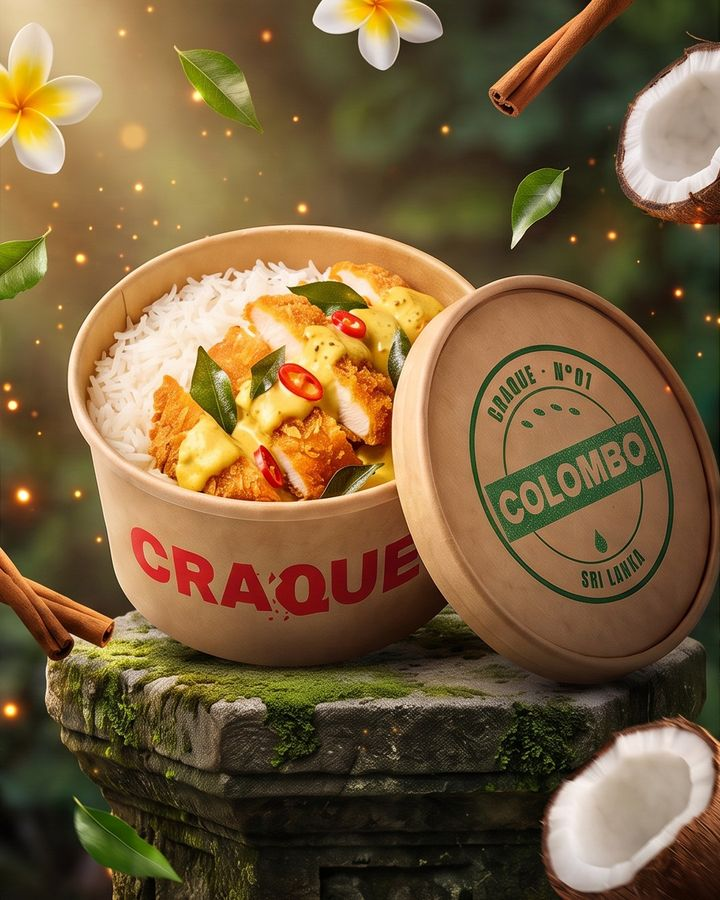
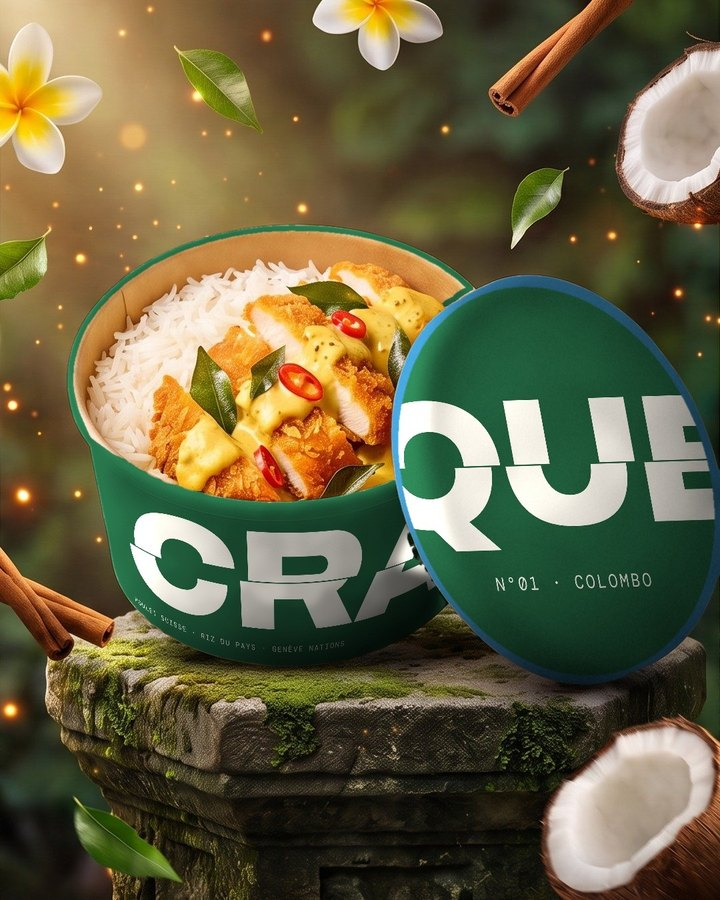
Cuisine Lab : présentation lisible sur téléphone + box verte dans les scènes (#67)
* Présentation Cuisine Lab : version lisible sur téléphone et tablette

En portrait, les 13 écrans s'empilent en défilement vertical, recalés
pour la largeur du téléphone. L'ordinateur et le paysage restent en
diaporama.

Claude-Session: https://claude.ai/code/session_01WSGfmNamgRYgbR4Fhe6eWt

* CRAQUE : nouvelle box verte dans les scènes Colombo, Téhéran, Delhi

Fonds et plats d'origine gardés ; seule la box change (CRA sur le bol,
QUE et l'édition sur le couvercle, bande à la couleur de l'édition).
Remplace aussi les 3 posts du compte Instagram de la présentation.

Claude-Session: https://claude.ai/code/session_01WSGfmNamgRYgbR4Fhe6eWt

---------

Changed region(s): [[0.0917, 0.28, 1.0, 0.7778], [0.2444, 0.2489, 0.5806, 0.28], [0.1833, 0.28, 0.2444, 0.3111]]

diff --git a/public/demos/cachet/v2/index.html b/public/demos/cachet/v2/index.html
@@ -202,7 +202,7 @@ a:hover{color:#1F5A3A;}
     <span>du midi.</span>
   </h2>
   <p style="position:absolute; left:100px; top:560px; width:620px; margin:0; font-size:36px; font-weight:500; line-height:1.2; color:#A39C90;">La même appli, côté clients du midi.</p>
-  <div style="position:absolute; left:812px; top:150px; display:flex; gap:36px;">
+  <div data-m="phones" style="position:absolute; left:812px; top:150px; display:flex; gap:36px;">
     <div style="display:flex; flex-direction:column; gap:26px;">
       <div style="width:312px; height:660px; border-radius:48px; background:#3A3A3A; padding:10px; box-sizing:border-box;">
         <div style="width:100%; height:100%; border-radius:39px; background:#FFFFFF; color:#111111; overflow:hidden; display:flex; flex-direction:column; gap:14px; padding:24px 20px 20px; box-sizing:border-box;">
@@ -313,7 +313,7 @@ a:hover{color:#1F5A3A;}
       <div style="position:absolute; left:0; right:0; top:126px; height:46px; background:#E8641E; color:#111111; display:flex; align-items:center; justify-content:center; font-family:'DM Mono',monospace; font-size:22px; letter-spacing:.06em;">N°03 DELHI</div>
     </div>
   </div>
-  <div style="position:absolute; left:1020px; top:120px; width:800px; height:800px; background:#E6DDCB; color:#6B645A;">
+  <div data-m="photo" style="position:absolute; left:1020px; top:120px; width:800px; height:800px; background:#E6DDCB; color:#6B645A;">
     <img src="img/craque-box-dessus.jpg" alt="" style="position:absolute; inset:0; width:100%; height:100%; object-fit:cover; display:block;">
   </div>
   <sc-if value="{{ pauses }}" hint-placeholder-val="{{ true }}">
@@ -329,7 +329,7 @@ a:hover{color:#1F5A3A;}
 <section data-label="Midi puis soir" data-screen-label="07 Midi puis soir" data-speaker-notes="CRAQUE démarre le midi, dans les canaux qu'ils maîtrisent déjà : clients traiteur, organisations du quartier, click &amp; collect. Pas de bruit public. On cale le coût matière, les recettes et la cadence de la cuisine. Seulement ensuite, on ouvre le soir avec le lancement complet. C'est aussi la réponse à la cuisine vide le soir." style="background:#1F5A3A; color:#F6F1E7; font-family:'Archivo',sans-serif; overflow:hidden;">
   <div style="position:absolute; left:100px; top:90px; font-family:'DM Mono',monospace; font-size:26px; letter-spacing:.14em; text-transform:uppercase; color:#CFE3D6;">Étape 3 · Le lancement en deux temps</div>
   <h2 style="position:absolute; left:100px; top:150px; margin:0; font-size:106px; font-weight:900; line-height:.92; letter-spacing:-0.035em; white-space:nowrap;">Le midi d’abord. Le soir ensuite.</h2>
-  <div style="position:absolute; left:100px; right:100px; top:340px; height:560px; display:grid; grid-template-columns:minmax(0,1fr) 90px minmax(0,1fr); gap:0;">
+  <div data-m="temps" style="position:absolute; left:100px; right:100px; top:340px; height:560px; display:grid; grid-template-columns:minmax(0,1fr) 90px minmax(0,1fr); gap:0;">
     <div style="background:#F6F1E7; color:#111111; padding:44px 48px; display:flex; flex-direction:column; justify-content:space-between; min-width:0;">
       <div style="display:flex; flex-direction:column; gap:18px;">
         <span style="font-family:'DM Mono',monospace; font-size:26px; letter-spacing:.14em; text-transform:uppercase; color:#1F5A3A;">Temps 1 · En silence</span>
@@ -361,7 +361,7 @@ a:hover{color:#1F5A3A;}
 <section data-label="Le rendu réel" data-screen-label="08 Le rendu réel" data-speaker-notes="Six mises en situation. Les cadres reçoivent les photos réelles après le premier shooting en plongée, au flash." style="background:#111111; color:#F6F1E7; font-family:'Archivo',sans-serif; overflow:hidden;">
   <div style="position:absolute; left:100px; top:90px; font-family:'DM Mono',monospace; font-size:26px; letter-spacing:.14em; text-transform:uppercase; color:#8CC0A0;">Étape 3 · Sur le terrain</div>
   <h2 style="position:absolute; left:100px; top:150px; margin:0; font-size:120px; font-weight:900; line-height:.92; letter-spacing:-0.035em;">Le rendu réel.</h2>
-  <div style="position:absolute; left:100px; right:100px; top:320px; height:620px; display:grid; grid-template-columns:repeat(3,minmax(0,1fr)); grid-template-rows:repeat(2,minmax(0,1fr)); gap:24px;">
+  <div data-m="rendus" style="position:absolute; left:100px; right:100px; top:320px; height:620px; display:grid; grid-template-columns:repeat(3,minmax(0,1fr)); grid-template-rows:repeat(2,minmax(0,1fr)); gap:24px;">
     <div style="display:flex; flex-direction:column; gap:12px; min-height:0;">
       <div style="flex:1; min-height:0; position:relative; background:#1C1C1C; color:#A39C90;"><img src="img/rendu-box.jpg" alt="" style="position:absolute; inset:0; width:100%; height:100%; object-fit:cover; display:block;"></div>
       <span style="font-family:'DM Mono',monospace; font-size:24px; letter-spacing:.06em;">01 · Box, une couleur par édition</span>
@@ -400,11 +400,11 @@ a:hover{color:#1F5A3A;}
 <section data-label="L'identité" data-screen-label="09 L'identité" data-speaker-notes="Le mot se fend comme une croûte : la moitié haute glisse vers la droite. Le Q seul sert d'avatar, d'icône d'appli et de tampon. Quatre couleurs fixes, la couleur d'édition reste sur la bande du couvercle." style="background:#1F5A3A; color:#F6F1E7; font-family:'Archivo',sans-serif; overflow:hidden;">
   <div style="position:absolute; left:100px; top:90px; font-family:'DM Mono',monospace; font-size:26px; letter-spacing:.14em; text-transform:uppercase;">Étape 3 · L’identité</div>
   <h2 style="position:absolute; left:100px; top:150px; margin:0; font-size:120px; font-weight:900; line-height:.92; letter-spacing:-0.035em;">L’identité.</h2>
-  <div style="position:absolute; left:92px; top:300px; font-size:300px; font-weight:900; font-stretch:125%; line-height:.9; letter-spacing:-0.02em; color:#F6F1E7;">
+  <div data-m="bigword" style="position:absolute; left:92px; top:300px; font-size:300px; font-weight:900; font-stretch:125%; line-height:.9; letter-spacing:-0.02em; color:#F6F1E7;">
     <span style="display:block; clip-path:inset(51% -5% -10% -5%);">CRAQUE</span>
     <span style="position:absolute; left:0; top:0; display:block; clip-path:inset(-10% -5% 50% -5%); transform:translateX(12px);">CRAQUE</span>
   </div>
-  <div style="position:absolute; left:100px; right:100px; top:640px; display:flex; gap:56px; align-items:flex-start;">
+  <div data-m="idrow" style="position:absolute; left:100px; right:100px; top:640px; display:flex; gap:56px; align-items:flex-start;">
     <div style="display:flex; flex-direction:column; gap:14px;">
       <div style="width:250px; height:250px; background:#111111; display:flex; align-items:center; justify-content:center;">
         <div style="position:relative; font-size:180px; font-weight:900; font-stretch:125%; line-height:.9; color:#F6F1E7;">
@@ -479,13 +479,13 @@ a:hover{color:#1F5A3A;}
         <div style="flex:1; background:#EFE8DA; border-radius:8px; padding:8px; text-align:center; font-size:14px; font-weight:700;">Message</div>
       </div>
       <div style="display:grid; grid-template-columns:repeat(3,minmax(0,1fr)); gap:2px; margin:0 -16px;">
-        <div style="aspect-ratio:4/5; overflow:hidden; background:#E6DDCB;"><img src="img/insta-p1.jpg" alt="N°03 Delhi, post 1" style="width:100%; height:100%; object-fit:cover; display:block;"></div>
+        <div style="aspect-ratio:4/5; overflow:hidden; background:#E6DDCB;"><img src="img/insta-p1.jpg" alt="N°01 Colombo" style="width:100%; height:100%; object-fit:cover; display:block;"></div>
         <div style="aspect-ratio:4/5; overflow:hidden; background:#E6DDCB;"><img src="img/insta-p2.jpg" alt="N°03 Delhi, post 2" style="width:100%; height:100%; object-fit:cover; display:block;"></div>
         <div style="aspect-ratio:4/5; overflow:hidden; background:#E6DDCB;"><img src="img/insta-p3.jpg" alt="N°03 Delhi, post 3" style="width:100%; height:100%; object-fit:cover; display:block;"></div>
         <div style="aspect-ratio:4/5; overflow:hidden; background:#E6DDCB;"><img src="img/insta-p4.jpg" alt="N°02 Téhéran, post 1" style="width:100%; height:100%; object-fit:cover; display:block;"></div>
-        <div style="aspect-ratio:4/5; overflow:hidden; background:#E6DDCB;"><img src="img/insta-p5.jpg" alt="N°02 Téhéran, post 2" style="width:100%; height:100%; object-fit:cover; display:block;"></div>
+        <div style="aspect-ratio:4/5; overflow:hidden; background:#E6DDCB;"><img src="img/insta-p5.jpg" alt="N°02 Téhéran" style="width:100%; height:100%; object-fit:cover; display:block;"></div>
         <div style="aspect-ratio:4/5; overflow:hidden; background:#E6DDCB;"><img src="img/insta-p6.jpg" alt="N°02 Téhéran, post 3" style="width:100%; height:100%; object-fit:cover; display:block;"></div>
-        <div style="aspect-ratio:4/5; overflow:hidden; background:#E6DDCB;"><img src="img/insta-p7.jpg" alt="N°01 Colombo, post 1" style="width:100%; height:100%; object-fit:cover; display:block;"></div>
+        <div style="aspect-ratio:4/5; overflow:hidden; background:#E6DDCB;"><img src="img/insta-p7.jpg" alt="N°03 Delhi" style="width:100%; height:100%; object-fit:cover; display:block;"></div>
         <div style="aspect-ratio:4/5; overflow:hidden; background:#E6DDCB;"><img src="img/insta-p8.jpg" alt="N°01 Colombo, post 2" style="width:100%; height:100%; object-fit:cover; display:block;"></div>
         <div style="aspect-ratio:4/5; overflow:hidden; background:#E6DDCB;"><img src="img/insta-p9.jpg" alt="N°01 Colombo, post 3" style="width:100%; height:100%; object-fit:cover; display:block;"></div>
       </div>
@@ -522,7 +522,7 @@ a:hover{color:#1F5A3A;}
   <div style="position:absolute; left:100px; top:90px; font-family:'DM Mono',monospace; font-size:26px; letter-spacing:.14em; text-transform:uppercase;">Nouvelle Ardoise</div>
   <h2 style="position:absolute; left:100px; top:150px; margin:0; font-size:120px; font-weight:900; line-height:.92; letter-spacing:-0.035em;">Qui je suis.</h2>
   <p style="position:absolute; left:100px; top:300px; margin:0; font-size:36px; font-weight:600; line-height:1.2;">Un seul interlocuteur, une équipe de spécialistes prête à s’activer.</p>
-  <div style="position:absolute; left:100px; right:100px; top:410px; height:520px; display:grid; grid-template-columns:500px minmax(0,1fr) 400px minmax(0,1fr) 500px; grid-template-rows:repeat(2,minmax(0,1fr)); row-gap:24px;">
+  <div data-m="team" style="position:absolute; left:100px; right:100px; top:410px; height:520px; display:grid; grid-template-columns:500px minmax(0,1fr) 400px minmax(0,1fr) 500px; grid-template-rows:repeat(2,minmax(0,1fr)); row-gap:24px;">
     <div style="grid-column:1; grid-row:1; background:#111111; color:#F6F1E7; padding:30px; display:flex; flex-direction:column; justify-content:space-between;">
       <span style="font-family:'DM Mono',monospace; font-size:24px; color:#A39C90;">01</span>
       <span style="font-size:44px; font-weight:800; line-height:1.02; letter-spacing:-0.02em;">Terrain et prospection</span>
@@ -651,7 +651,7 @@ a:hover{color:#1F5A3A;}
     </div>
     <span style="margin-top:18px; font-family:'DM Mono',monospace; font-size:22px; letter-spacing:.08em; color:#A39C90;">OBJECTIFS PROPOSÉS · À FIXER ENSEMBLE</span>
   </div>
-  <div style="position:absolute; left:0; right:0; top:780px; height:130px; background:#1F5A3A; color:#F6F1E7; display:grid; grid-template-columns:repeat(3,minmax(0,1fr)); align-items:center; padding:0 100px; box-sizing:border-box;">
+  <div data-m="band" style="position:absolute; left:0; right:0; top:780px; height:130px; background:#1F5A3A; color:#F6F1E7; display:grid; grid-template-columns:repeat(3,minmax(0,1fr)); align-items:center; padding:0 100px; box-sizing:border-box;">
     <div style="display:flex; align-items:baseline; gap:20px;"><span style="font-family:'DM Mono',monospace; font-size:26px;">01</span><span style="font-size:64px; font-weight:900; letter-spacing:-0.03em;">On teste</span></div>
     <div style="display:flex; align-items:baseline; gap:20px;"><span style="font-family:'DM Mono',monospace; font-size:26px;">02</span><span style="font-size:64px; font-weight:900; letter-spacing:-0.03em;">On apprend</span></div>
     <div style="display:flex; align-items:baseline; gap:20px;"><span style="font-family:'DM Mono',monospace; font-size:26px;">03</span><span style="font-size:64px; font-weight:900; letter-spacing:-0.03em;">On ajuste</span></div>
@@ -703,12 +703,68 @@ class Component extends DCLogic {
   function close(){ win.hidden=true; win.style.display='none'; }
   close();
   document.addEventListener('click',function(e){
-    var a=e.target.closest&&e.target.closest('a[href="appli.html"]'); if(!a) return;
+    var a=e.target.closest&&e.target.closest('a[href="appli.html"]'); if(!a) return; if(window.__mobileDeck&&window.__mobileDeck.matches) return;
     e.preventDefault(); e.stopPropagation(); open();
   },true);
   document.getElementById('appClose').addEventListener('click',close);
   window.addEventListener('keydown',function(e){ if(e.key==='Escape'&&!win.hidden){ e.stopPropagation(); close(); } },true);
   window.__closeApp=close;
+})();
+</script>
+<style id="m-css">
+#mdeck{display:none}
+html.m-on,html.m-on body{background:#111111;height:auto;overflow:auto}
+html.m-on #dc-root{display:none!important}
+html.m-on #mdeck{display:block}
+#mdeck .m-s{position:relative!important;width:860px;min-height:0!important;height:auto!important;padding:64px 48px 72px;box-sizing:border-box;overflow:hidden}
+#mdeck .m-s > [style*="position:absolute"],#mdeck .m-s > [style*="position: absolute"],#mdeck .m-s > sc-if > [style*="position:absolute"],#mdeck .m-s > sc-if > [style*="position: absolute"]{position:relative!important;left:auto!important;right:auto!important;top:auto!important;bottom:auto!important;transform:none!important}
+#mdeck .m-s > *,#mdeck .m-s > sc-if{margin-bottom:32px!important}
+#mdeck .m-s > h2{margin-bottom:40px!important}
+#mdeck .m-s > *:last-child{margin-bottom:0!important}
+#mdeck .m-s [style*="height:6px"]{display:none}
+#mdeck .m-s > [style*="position:absolute"],#mdeck .m-s > [style*="position: absolute"]{height:auto!important;width:auto!important;max-width:100%}
+#mdeck .m-s [style*="nowrap"]{white-space:normal!important}
+#mdeck .m-s [style*="grid-template-columns:repeat(4"],#mdeck .m-s [style*="grid-template-columns:repeat(5"]{grid-template-columns:repeat(2,minmax(0,1fr))!important;height:auto!important}
+#mdeck [data-m=phones]{zoom:.7;gap:24px!important}
+#mdeck [data-m=temps]{grid-template-columns:minmax(0,1fr)!important}
+#mdeck [data-m=temps] > :nth-child(2){transform:rotate(90deg);height:90px}
+#mdeck [data-m=temps] > div{gap:28px}
+#mdeck [data-m=bigword]{font-size:128px!important;margin-left:-4px}
+#mdeck [data-m=photo]{width:100%!important;aspect-ratio:1/1}
+#mdeck [data-m=rendus]{grid-template-columns:repeat(2,minmax(0,1fr))!important;grid-template-rows:none!important;height:auto!important}
+#mdeck [data-m=rendus] [style*="flex:1"]{flex:none!important;aspect-ratio:4/3}
+#mdeck [data-m=idrow]{flex-wrap:wrap;gap:36px!important}
+#mdeck [data-m=team]{grid-template-columns:repeat(2,minmax(0,1fr))!important;grid-template-rows:auto!important;gap:20px!important}
+#mdeck [data-m=team] > *{grid-column:auto!important;grid-row:auto!important;min-height:200px}
+#mdeck [data-m=team] > [style*="height:3px"]{display:none}
+#mdeck [data-m=team] > [style*="grid-row:1 / 3"]{grid-column:1 / 3!important;order:-1;height:380px}
+#mdeck [data-m=band]{padding:36px 48px!important;margin:0 -48px 28px!important;max-width:none!important;width:auto!important}
+#mdeck [data-m=band]{grid-template-columns:minmax(0,1fr)!important;row-gap:10px}
+#mdeck [data-m=band] span[style*="64px"]{font-size:54px!important}
+#mdeck .m-s [style*="grid-template-columns"] > *{min-height:0}
+#mdeck sc-if{display:block}
+</style>
+<script>
+(function(){
+  var mq=window.matchMedia('(max-width: 1100px) and (orientation: portrait)');
+  function build(){
+    var src=document.querySelectorAll('deck-stage > section');
+    if(!src.length){ return setTimeout(build,120); }
+    var box=document.getElementById('mdeck');
+    if(!box){ box=document.createElement('main'); box.id='mdeck'; document.body.appendChild(box); }
+    box.innerHTML='';
+    src.forEach(function(sec){ var c=sec.cloneNode(true); c.querySelectorAll('[style]').forEach(function(e){ e.setAttribute('style', e.getAttribute('style').replace(/:\s+/g,':').replace(/grid-row:1\s*\/\s*3/g,'grid-row:1 / 3')); }); c.classList.add('m-s'); c.removeAttribute('data-deck-active'); box.appendChild(c); });
+    fit();
+  }
+  function fit(){ var z=window.innerWidth/860; document.querySelectorAll('#mdeck .m-s').forEach(function(c){ c.style.zoom=z; }); }
+  function apply(){
+    if(mq.matches){ document.documentElement.classList.add('m-on'); build(); }
+    else { document.documentElement.classList.remove('m-on'); }
+  }
+  window.__mobileDeck=mq;
+  if(mq.addEventListener) mq.addEventListener('change',apply);
+  window.addEventListener('resize',function(){ if(mq.matches) fit(); });
+  apply();
 })();
 </script>
 </body>
